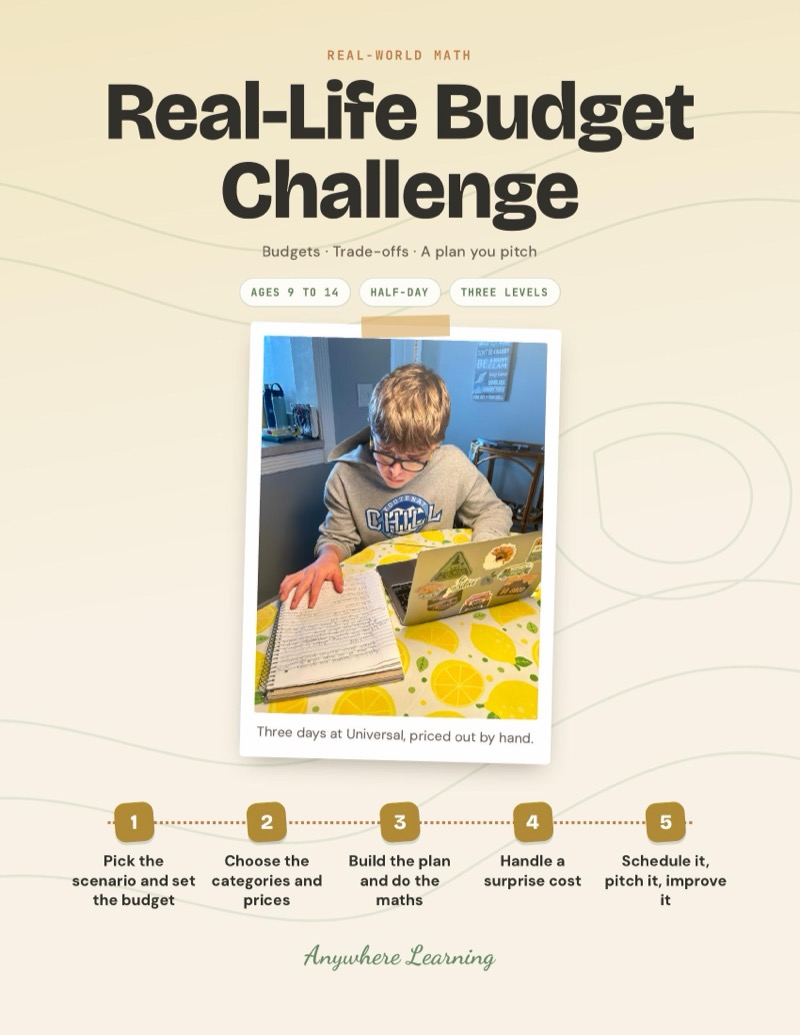
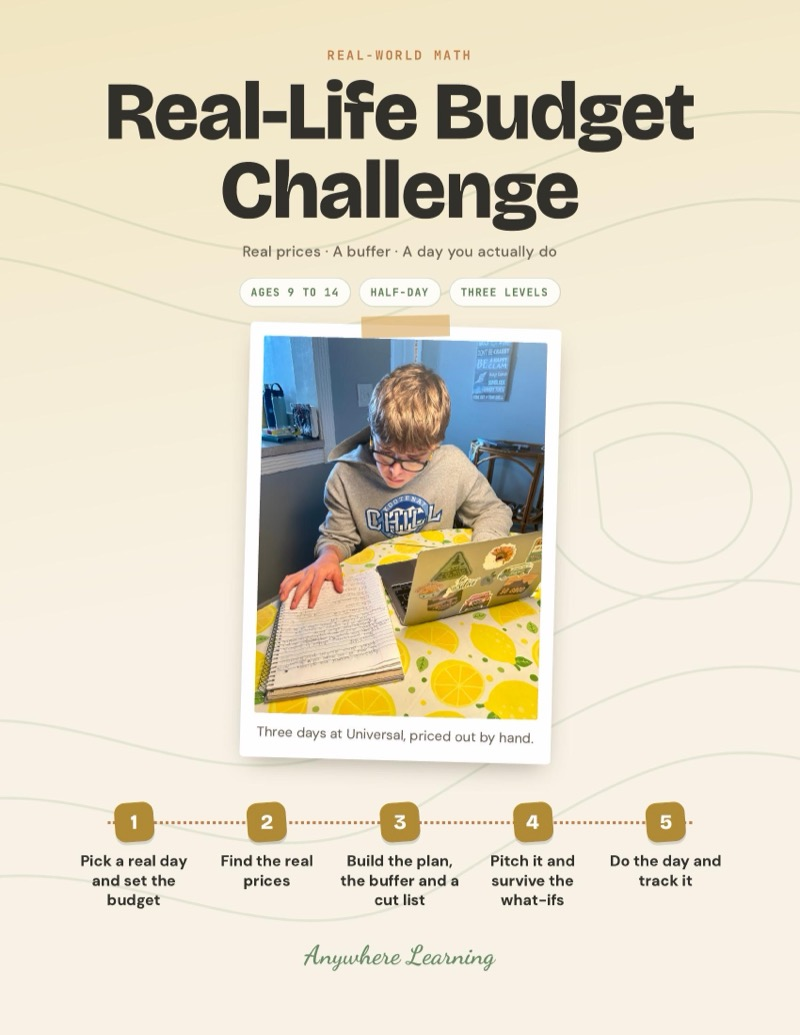
Budget Challenge: the day really happens (real prices, buffer and cut list, what-ifs, track the day) + Day Out Toolkit + listing copy

diff --git a/scripts/seed.ts b/scripts/seed.ts
@@ -48,7 +48,7 @@ async function seed() {
     { name: 'Build a Museum', slug: 'build-a-museum', description: 'Your child builds a real museum at home on a topic they love. They narrow it to an angle, research and pick the 5 to 8 pieces that tell the story, lay out a visitor path, write short labels that say what each piece is and why it matters, add a hands-on station, then open the doors with a guest book. Research, writing and design, driven by their own interests.', shortDescription: 'Creativity project for kids ages 6-14: build a museum at home, from finding an angle to labels and a grand opening.', priceCents: 599, compareAtPriceCents: null, stripePriceId: 'price_1TFcTaAMzOBftCntswLeOkPC', blobUrl: '', imageUrl: '/products/build-a-museum.jpg', category: 'creativity-maker', isBundle: false, bundleProductIds: null, activityCount: null, ageRange: 'Ages 6\u201314', sortOrder: 40, active: true },
 
     // === REAL-WORLD MATH, COMMUNICATION, ENTREPRENEURSHIP & PLANNING (sortOrder 50–60) ===
-    { name: 'Real-Life Budget Challenge', slug: 'budget-challenge', description: 'Plan a real day with a real budget. Research prices, handle surprise costs, and make trade-offs.', shortDescription: 'Real budgeting with real trade-offs.', priceCents: 599, compareAtPriceCents: null, stripePriceId: 'price_1TFcTaAMzOBftCntcx3BoyC8', blobUrl: '', imageUrl: '/products/budget-challenge.jpg', category: 'real-world-math', isBundle: false, bundleProductIds: null, activityCount: null, ageRange: 'Ages 9\u201314', sortOrder: 110, active: true },
+    { name: 'Real-Life Budget Challenge', slug: 'budget-challenge', description: 'Your child plans a day out the family will actually do, inside a real budget. They find the real prices, hold back a buffer, rank a cut list and pitch the plan to you. Then they run the money on the day, track every spend against the plan and see which line was furthest off. Real-world STEM maths with a day out at the end.', shortDescription: 'Real-world maths (STEM) for kids ages 9-14: plan a real day out on a real budget, then run the money on the day.', priceCents: 599, compareAtPriceCents: null, stripePriceId: 'price_1TFcTaAMzOBftCntcx3BoyC8', blobUrl: '', imageUrl: '/products/budget-challenge.jpg', category: 'real-world-math', isBundle: false, bundleProductIds: null, activityCount: null, ageRange: 'Ages 9\u201314', sortOrder: 110, active: true },
     { name: 'Community Impact Project', slug: 'community-impact', description: 'Pick a real neighbourhood problem, design a solution, build a plan, and do something about it.', shortDescription: 'Leadership through real community projects.', priceCents: 599, compareAtPriceCents: null, stripePriceId: 'price_1TFcTbAMzOBftCntFStp6niy', blobUrl: '', imageUrl: '/products/community-impact.jpg', category: 'planning-problem-solving', isBundle: false, bundleProductIds: null, activityCount: null, ageRange: 'Ages 9\u201314', sortOrder: 140, active: true },
     { name: 'Kitchen Math & Meal Planning Challenge', slug: 'kitchen-math-challenge', description: 'Plan a day of meals, price it, scale it for the family, and build a real shopping list.', shortDescription: 'Real meal planning math, no cooking needed.', priceCents: 599, compareAtPriceCents: null, stripePriceId: 'price_1TFcTbAMzOBftCntCTnW0gph', blobUrl: '', imageUrl: '/products/kitchen-math-challenge.jpg', category: 'real-world-math', isBundle: false, bundleProductIds: null, activityCount: null, ageRange: 'Ages 9\u201314', sortOrder: 111, active: true },
     { name: 'Media & Info Check', slug: 'media-info-check', description: 'Check reliability signals, find evidence, cross-check sources, and decide what is worth sharing.', shortDescription: 'Media literacy and critical thinking.', priceCents: 599, compareAtPriceCents: null, stripePriceId: 'price_1TFcTcAMzOBftCntRkLHGW3w', blobUrl: '', imageUrl: '/products/media-info-check.jpg', category: 'ai-literacy', isBundle: false, bundleProductIds: null, activityCount: null, ageRange: 'Ages 9\u201314', sortOrder: 80, active: true },

diff --git a/lib/product-descriptions.ts b/lib/product-descriptions.ts
@@ -766,24 +766,24 @@ export const productDescriptions: Record<string, ProductDescription> = {
   // ═══════════════════════════════════════════════════════════════════
   'budget-challenge': {
     opening:
-      'Your child picks a fun day out, gets a real budget, and has to make it work. They choose what to spend on, research prices, handle a surprise cost, build a schedule, and pitch the whole plan to you. Real budgeting with real prices and real trade-offs.',
+      'Your child plans a day out the family will actually do, inside a real budget. They find the real prices, hold back a buffer, rank a cut list and pitch the plan to you. Then they run the money on the day, track every spend against the plan and see which line was furthest off. Real-world STEM maths with a day out at the end.',
     whatsIncluded: [
-      'Pick-your-own scenario with real budget constraints',
-      'Price research using included Price Menu or real sources',
-      'Surprise cost step that forces real trade-off decisions',
-      'Schedule building and plan pitching',
-      'Version 2 revision after pitching the plan',
+      '5 steps from picking the day to tracking it',
+      'Finding real prices: websites, menus, a phone call',
+      'A 10% buffer and a ranked cut list',
+      'Two what-ifs to test the plan before you go',
+      'A Day Out Toolkit with a day tracker',
     ],
     skillTags: ['STEM', 'Real-World Math', 'Budgeting', 'Problem-Solving'],
     insideTheLearning: {
       lead:
-        'Your child picks a scenario and plans it against a real budget with real prices they research themselves. Then a surprise cost lands, and something has to give. Working out what to cut, and being able to say why, is where this stops being arithmetic and starts being judgement.',
+        'Your child plans a day out against a real budget with prices they find themselves, builds in a buffer, then runs the money on the day. When something costs more than planned, they decide on the spot what gives, and afterwards they see how close the plan came.',
       skills: [
         { skill: 'Budgeting', where: 'Holding a whole plan inside a fixed limit when the prices are real' },
         { skill: 'Number Sense', where: 'Researching actual prices and totalling them up accurately' },
-        { skill: 'Problem-Solving', where: 'Absorbing the surprise cost without blowing the budget' },
+        { skill: 'Problem-Solving', where: 'Handling surprises on the day with the buffer and the cut list' },
         { skill: 'Decision-Making', where: 'Choosing what gets cut when something has to go' },
-        { skill: 'Planning', where: 'Building the schedule that makes the plan actually happen' },
+        { skill: 'Planning', where: 'A plan, a buffer and a cut list the family really follows' },
         { skill: 'Communication', where: 'Defending the trade-offs they made and explaining why' },
       ],
     },

diff --git a/lib/fallback-products.ts b/lib/fallback-products.ts
@@ -578,15 +578,15 @@ export const fallbackProducts: FallbackProduct[] = [
     name: "Real-Life Budget Challenge",
     slug: "budget-challenge",
     description:
-      "Your child picks a fun day out, gets a real budget, and has to make it work. They choose what to spend on, research prices, handle a surprise cost, build a schedule, and pitch the whole plan. Real-world STEM math meets planning and decision-making in one project.",
+      "Your child plans a day out the family will actually do, inside a real budget. They find the real prices, hold back a buffer, rank a cut list and pitch the plan to you. Then they run the money on the day, track every spend against the plan and see which line was furthest off. Real-world STEM maths with a day out at the end.",
     shortDescription:
-      "Real-world math (STEM) for kids ages 9-14: plan a real day with a real budget. Price research, surprise costs, and trade-off decisions.",
+      "Real-world maths (STEM) for kids ages 9-14: plan a real day out on a real budget, then run the money on the day.",
     priceCents: 599,
     compareAtPriceCents: null,
     stripePriceId: "price_1TLrpmAkIBECpwGmgi9i7P74",
     blobUrl: "",
     imageUrl: "/products/budget-challenge.jpg",
-    previewFile: "Preview Real-world math - Real-Life Budget Challenge v5.pdf",
+    previewFile: "Preview Real-world math - Real-Life Budget Challenge v6.pdf",
     category: "real-world-math",
     isBundle: false,
     bundleProductIds: null,

diff --git a/lib/activity-blob-urls.ts b/lib/activity-blob-urls.ts
@@ -19,7 +19,7 @@ export const ACTIVITY_BLOB_URLS: Record<string, string> = {
   "body-owners-manual": "https://xkj3tzlgu6ylgllk.public.blob.vercel-storage.com/Planning%20%26%20Problem-Solving%20THE%20BODY%20OWNER%27S%20MANUAL%20v2.pdf",
   "boredom-toolkit": "https://xkj3tzlgu6ylgllk.public.blob.vercel-storage.com/Emotional%20%26%20Social%20Skills%20-%20The%20Boredom%20Toolkit%20v2.pdf",
   "brand-builder": "https://xkj3tzlgu6ylgllk.public.blob.vercel-storage.com/Entrepreneurship%20-%20Brand%20builder%20v2.pdf",
-  "budget-challenge": "https://xkj3tzlgu6ylgllk.public.blob.vercel-storage.com/Real-world%20math%20-%20Real-Life%20Budget%20Challenge%20v5.pdf",
+  "budget-challenge": "https://xkj3tzlgu6ylgllk.public.blob.vercel-storage.com/Real-world%20math%20-%20Real-Life%20Budget%20Challenge%20v6.pdf",
   "build-a-museum": "https://xkj3tzlgu6ylgllk.public.blob.vercel-storage.com/Creativity%20%26%20Maker%20build%20a%20museum%20or%20interactive%20exhibit%20v4.pdf",
   "build-ai-helper": "https://xkj3tzlgu6ylgllk.public.blob.vercel-storage.com/AI%20%26%20Digital%20Literacy%20-%20BUILD%20YOUR%20OWN%20AI%20HELPER%20v2.pdf",
   "business-failure-lab": "https://xkj3tzlgu6ylgllk.public.blob.vercel-storage.com/Entrepreneurship%20-%20Business%20Failure%20Lab%20v2.pdf",
